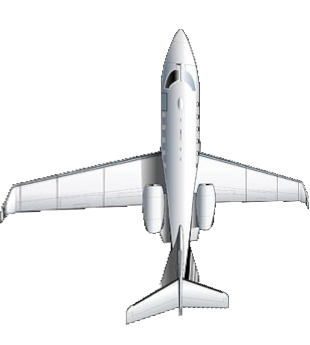
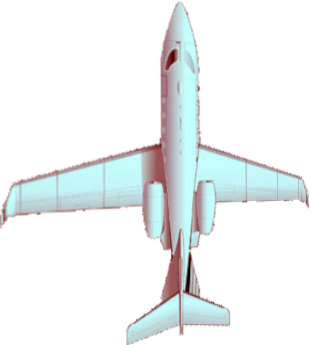
Ajuste

Changed region(s): [[0.0, 0.0, 1.0, 1.0]]

diff --git a/core/enemy.py b/core/enemy.py
@@ -11,8 +11,8 @@ class Enemy(pygame.sprite.Sprite):
     def __init__(self, x=100, y=100, health=50, weapon_type=1):
         super().__init__()
         # Carrega sprite do avião
-        self.image = pygame.image.load("assets/aviao_0.png").convert_alpha()
-        self.image = pygame.transform.scale(self.image, (50, 50))
+        self.image = pygame.image.load("assets/aviao.png").convert_alpha()
+        self.image = pygame.transform.scale(self.image, (70, 70))
         self.image = pygame.transform.rotate(self.image, 180)  # aponta para baixo
         
         # atributos de vida 
@@ -76,8 +76,8 @@ class Enemy(pygame.sprite.Sprite):
 
     def draw_shadow(self, screen):
         shadow = pygame.Surface((40, 15), pygame.SRCALPHA)
-        pygame.draw.ellipse(shadow, (0, 0, 0, 100), shadow.get_rect())
-        screen.blit(shadow, (self.rect.centerx - 20, self.rect.bottom - 5))
+        pygame.draw.ellipse(shadow, (0, 0, 0, 200), shadow.get_rect())
+        screen.blit(shadow, (self.rect.centerx - 20, self.rect.bottom + 50))
         
         
     def take_damage(self, amount, game=None):

diff --git a/core/player.py b/core/player.py
@@ -14,13 +14,13 @@ class Player(pygame.sprite.Sprite):
         #self.image.fill((0, 255, 0))  # verde
         # Carrega sprite da nave 
         self.image_idle = pygame.image.load("assets/aviao_0.png").convert_alpha() 
-        self.image_idle = pygame.transform.scale(self.image_idle, (50, 50)) 
+        self.image_idle = pygame.transform.scale(self.image_idle, (70, 70)) 
         
         self.image_right = pygame.image.load("assets/aviao_d.png").convert_alpha() 
-        self.image_right = pygame.transform.scale(self.image_right, (50, 50)) 
+        self.image_right = pygame.transform.scale(self.image_right, (70, 70)) 
         
         self.image_left = pygame.image.load("assets/aviao_e.png").convert_alpha() 
-        self.image_left = pygame.transform.scale(self.image_left, (50, 50)) 
+        self.image_left = pygame.transform.scale(self.image_left, (70, 70)) 
         
         self.weapon = BasicWeapon(self) # começa com arma básica
         # Lista de armas disponíveis 
